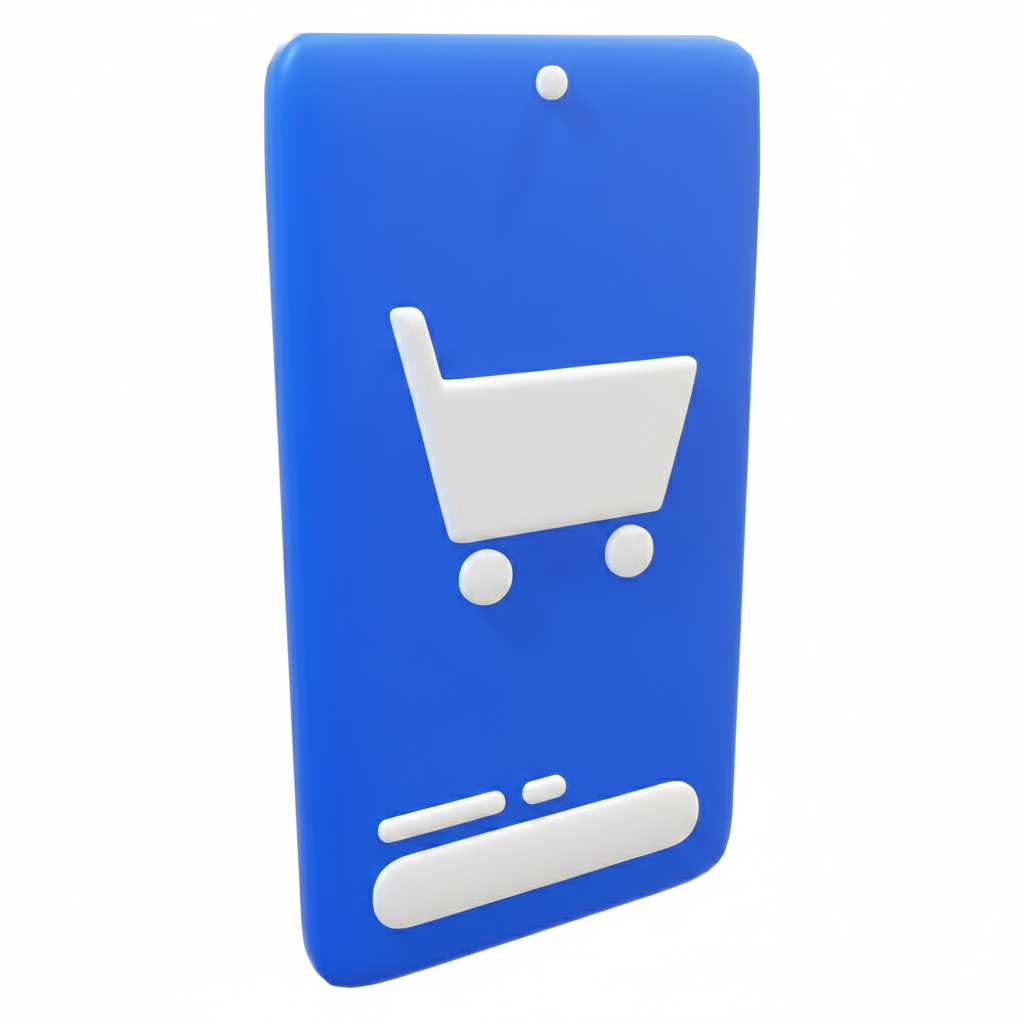
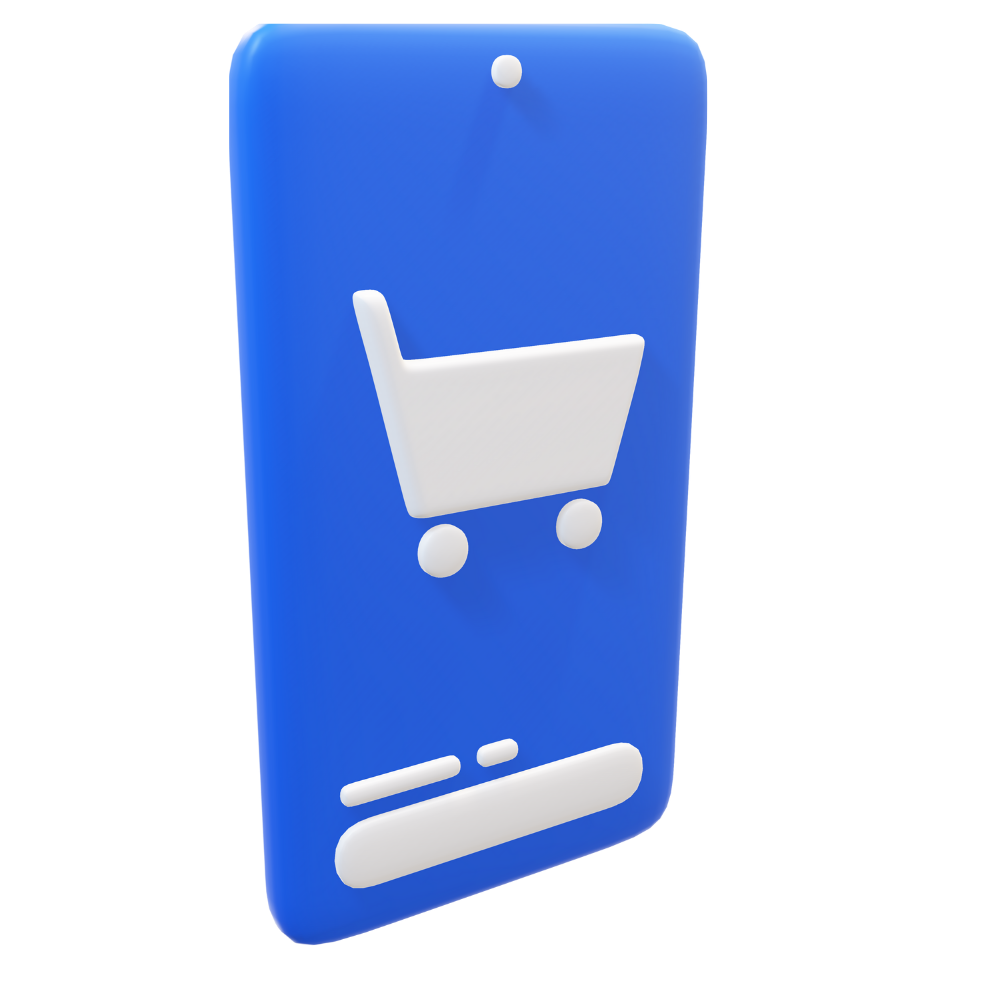
Piksel aniqligidagi dizayn va shaffof rasm yangilandi

Changed region(s): [[0.217, 0.0, 0.744, 0.961]]

diff --git a/index.html b/index.html
@@ -4,69 +4,172 @@
     <meta charset="UTF-8">
     <meta name="viewport" content="width=device-width, initial-scale=1.0">
     <title>KH SHOP | Professional</title>
-    <link href="https://fonts.googleapis.com/css2?family=Montserrat:wght@900&family=Poppins:wght@400;700&display=swap" rel="stylesheet">
+    <link href="https://fonts.googleapis.com/css2?family=Montserrat:wght@800&family=Poppins:wght@400;600&display=swap" rel="stylesheet">
     <style>
-        /* 1. Global Sheet */
-        * { margin: 0; padding: 0; box-sizing: border-box; scroll-behavior: smooth; }
-        body { background: linear-gradient(135deg, #00f2ff 0%, #0055ff 100%); font-family: 'Poppins', sans-serif; overflow-x: hidden; }
+        /* 1. Global sozlamalar */
+        * { margin: 0; padding: 0; box-sizing: border-box; }
+        
+        body { 
+            background: linear-gradient(105deg, #00f2ff 0%, #0055ff 100%);
+            min-height: 100vh;
+            font-family: 'Poppins', sans-serif;
+            overflow: hidden;
+            display: flex;
+            align-items: center;
+            justify-content: center;
+            position: relative;
+        }
 
-        /* 2. Header */
-        header { position: fixed; top: 0; width: 100%; padding: 25px 8%; display: flex; justify-content: space-between; align-items: center; z-index: 100; backdrop-filter: blur(5px); }
-        .nav-links a { margin-left: 25px; text-decoration: none; color: #000; font-weight: 700; font-size: 14px; }
+        /* Oq diagonal qism (Piksel-aniqlikda) */
+        body::after {
+            content: "";
+            position: absolute;
+            bottom: 0;
+            left: 0;
+            width: 100%;
+            height: 28%;
+            background: white;
+            clip-path: polygon(0 100%, 100% 100%, 100% 0);
+            z-index: 1;
+        }
 
-        /* 3. Hero Section */
-        .hero { height: 100vh; display: flex; align-items: center; justify-content: space-between; padding: 0 8%; }
-        .hero-text h1 { font-family: 'Montserrat', sans-serif; font-size: clamp(40px, 8vw, 80px); line-height: 0.9; color: #000; }
-        .btn { background: #fff; color: #0055ff; padding: 18px 40px; border-radius: 50px; text-decoration: none; font-weight: 800; display: inline-block; margin-top: 30px; box-shadow: 0 10px 25px rgba(0,0,0,0.15); transition: 0.3s; }
-        .btn:hover { transform: translateY(-5px); }
+        /* 2. Header (Navbar) */
+        header {
+            position: absolute;
+            top: 0;
+            width: 100%;
+            padding: 25px 8%;
+            display: flex;
+            justify-content: space-between;
+            align-items: center;
+            z-index: 100;
+        }
 
-        .hero-image img { width: 100%; max-width: 550px; filter: drop-shadow(20px 40px 60px rgba(0,0,0,0.3)); animation: float 4s infinite; }
-        @keyframes float { 0%, 100% { transform: translateY(0); } 50% { transform: translateY(-30px); } }
+        .header-logo-group {
+            display: flex;
+            align-items: center;
+            gap: 12px;
+        }
 
-        /* 4. Market Section */
-        .market { padding: 100px 8%; background: rgba(255,255,255,0.1); }
-        .section-title { text-align: center; font-family: 'Montserrat', sans-serif; font-size: 35px; margin-bottom: 50px; }
-        .cards { display: grid; grid-template-columns: repeat(auto-fit, minmax(300px, 1fr)); gap: 30px; }
-        .card { background: rgba(255,255,255,0.2); padding: 40px; border-radius: 25px; border: 1px solid rgba(255,255,255,0.3); text-align: center; transition: 0.4s; }
-        .card:hover { background: rgba(255,255,255,0.3); transform: translateY(-10px); }
+        .header-logo-group img { width: 45px; }
+
+        .nav-links { display: flex; gap: 35px; align-items: center; }
+
+        .nav-links a {
+            text-decoration: none;
+            color: #333;
+            font-weight: 500;
+            font-size: 15px;
+        }
+
+        .btn-hobil {
+            background: #3b71ca;
+            color: white !important;
+            padding: 10px 25px;
+            border-radius: 6px;
+        }
+
+        /* 3. Hero bo'limi */
+        .hero {
+            display: flex;
+            width: 100%;
+            max-width: 1350px;
+            padding: 0 8%;
+            align-items: center;
+            justify-content: space-between;
+            z-index: 10;
+        }
+
+        .content { flex: 1; }
+
+        /* Sarlavha ustidagi kichik logotip */
+        .mini-logo {
+            display: flex;
+            align-items: center;
+            gap: 10px;
+            margin-bottom: 35px;
+        }
+
+        .content h1 {
+            font-family: 'Montserrat', sans-serif;
+            font-size: 68px;
+            color: #000;
+            line-height: 1.05;
+            text-transform: uppercase;
+            letter-spacing: -1.5px;
+            margin-bottom: 40px;
+        }
+
+        .btn-main {
+            background: #fff;
+            color: #3b71ca;
+            padding: 14px 40px;
+            border-radius: 35px;
+            text-decoration: none;
+            font-weight: 700;
+            font-size: 15px;
+            text-transform: uppercase;
+            box-shadow: 0 10px 25px rgba(0,0,0,0.1);
+            display: inline-block;
+        }
+
+        /* 4. Rasm (Yangi shaffof fayl uchun) */
+        .image-box {
+            flex: 1;
+            display: flex;
+            justify-content: flex-end;
+        }
+
+        .image-box img {
+            width: 115%;
+            max-width: 680px;
+            /* Shaffof rasm bo'lgani uchun blend-mode shart emas */
+            transform: translate(20px, 30px);
+        }
+
+        /* Mobil qurilmalar uchun moslashuv */
+        @media (max-width: 1024px) {
+            .hero { flex-direction: column; text-align: center; padding-top: 100px; }
+            .content h1 { font-size: 42px; }
+            .image-box { justify-content: center; width: 100%; margin-top: 50px; }
+            .nav-links { display: none; }
+        }
     </style>
 </head>
 <body>
 
     <header>
-        <div style="font-family:'Montserrat'; font-size:24px;">KH SHOP</div>
+        <div class="header-logo-group">
+            <img src="img/logo.png" alt="Logo">
+            <div style="font-family: 'Montserrat'; font-weight: 800; line-height: 0.9;">
+                <p style="font-size: 14px;">KH</p>
+                <p style="font-size: 22px;">SHOP 2</p>
+            </div>
+        </div>
         <nav class="nav-links">
-            <a href="#">ASOSIY</a>
-            <a href="#market">DO'KON</a>
-            <a href="#">ALOQA</a>
+            <a href="#">Httml</a>
+            <a href="#">Stome</a>
+            <a href="#">Coloon</a>
+            <a href="#market">Market</a>
+            <a href="#" class="btn-hobil">Hobil</a>
         </nav>
     </header>
 
     <section class="hero">
-        <div class="hero-text">
-            <h1>HAMMASI <br> BITTA – <br> ILOVADA</h1>
-            <a href="#market" class="btn">MARKETGA O'TISH</a>
+        <div class="content">
+            <div class="mini-logo">
+                <img src="img/logo.png" width="45">
+                <div style="font-family: 'Montserrat'; font-weight: 800; line-height: 0.9;">
+                    <p style="font-size: 13px;">KH</p>
+                    <p style="font-size: 20px;">SHOP</p>
+                </div>
+            </div>
+            <h1>HAMMASI BITTA – <br> ILOVADA</h1>
+            <a href="#market" class="btn-main">BATAFSIL MA'LUMOT</a>
         </div>
-        <div class="hero-image">
-            <img src="img/basket.png" alt="3D Basket" onerror="this.src='https://i.ibb.co/fndW8p4/3d-basket.png'">
-        </div>
-    </section>
 
-    <section id="market" class="market">
-        <h2 class="section-title">BIZNING XIZMATLAR</h2>
-        <div class="cards">
-            <div class="card">
-                <h3>Telegram Market</h3>
-                <p>Stars va obunachilar eng arzon narxlarda.</p>
-            </div>
-            <div class="card">
-                <h3>AI Market</h3>
-                <p>ChatGPT va AI vositalariga ulanish.</p>
-            </div>
-            <div class="card">
-                <h3>Web Xizmatlari</h3>
-                <p>Professional saytlar yaratish xizmati.</p>
-            </div>
+        <div class="image-box">
+            <img src="img/basket.png" alt="3D Basket">
         </div>
     </section>
 
